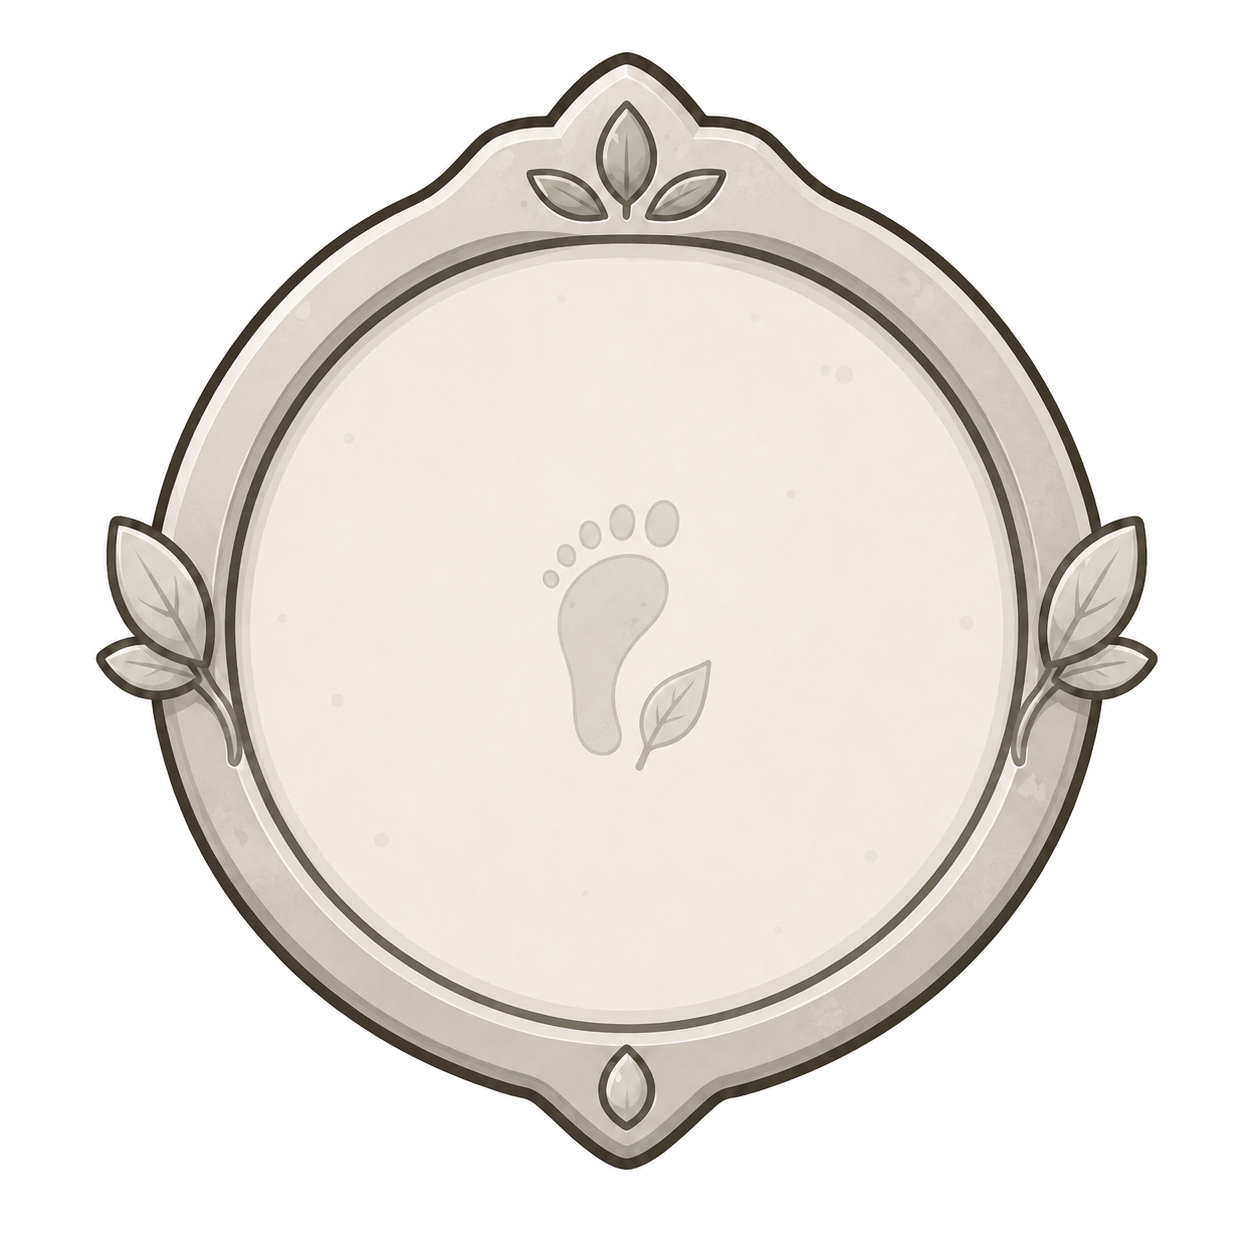
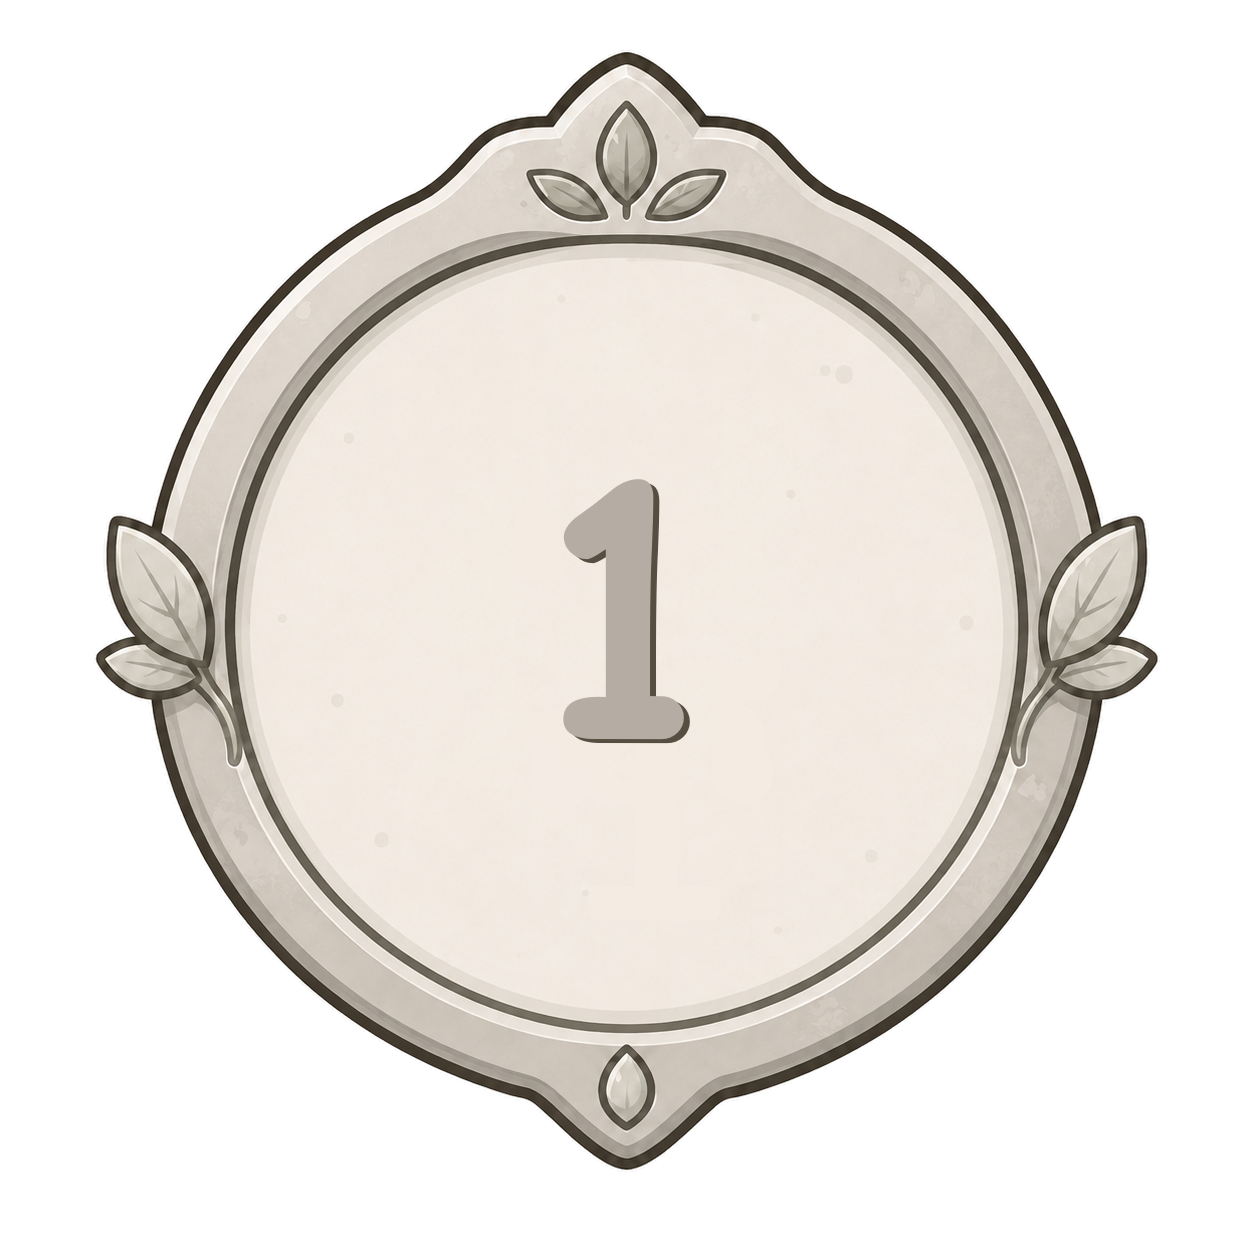
fixing new badge presentation

Changed region(s): [[0.4354, 0.3732, 0.5909, 0.622]]

diff --git a/css/animals.css b/css/animals.css
@@ -70,7 +70,7 @@
 }
 
 .badge-progress-card h2 {
-    color: var(--bright-yellow);
+    color: white;
 }
 
 .badge-row {
@@ -111,7 +111,7 @@
 }
 
 .acquired-badge strong, .next-badge strong {
-    padding-top: 5px;
+    padding-top: 10px;
     color: var(--bright-yellow);
     font-size: 1rem;
     text-align: center;
@@ -132,7 +132,7 @@
 }
 
 .current-badge strong {
-    padding-top: 0;
+    padding-top: 5px;
     color: var(--golden);
     font-size: 1.2rem;
     text-align: center;
@@ -154,8 +154,8 @@
 
 .objective strong, .objective img, .objective small,
 .next-badge strong, .next-badge img, .next-badge small {
-    filter: grayscale(95%);
-    opacity: 0.4;
+    filter: grayscale(60%);
+    opacity: 0.3;
 }
 
 .progress-bar {

diff --git a/js/objectives.js b/js/objectives.js
@@ -1,7 +1,7 @@
 import { loadIndex } from "./dataLoader.js";
 
 const BADGES = [
-    { name: "Aucun", goal: 0, image:"images/badges/badge-aucun.png" },
+    { name: "Starter", goal: 1, image:"images/badges/badge-aucun.png" },
     { name: "Premiers Pas", goal: 10, image:"images/badges/badge-premiers-pas.png" },
     { name: "Un Bon Début", goal: 25, image:"images/badges/badge-bon-debut.png" },
     { name: "Curieux", goal: 50, image:"images/badges/badge-curieux.png" },
